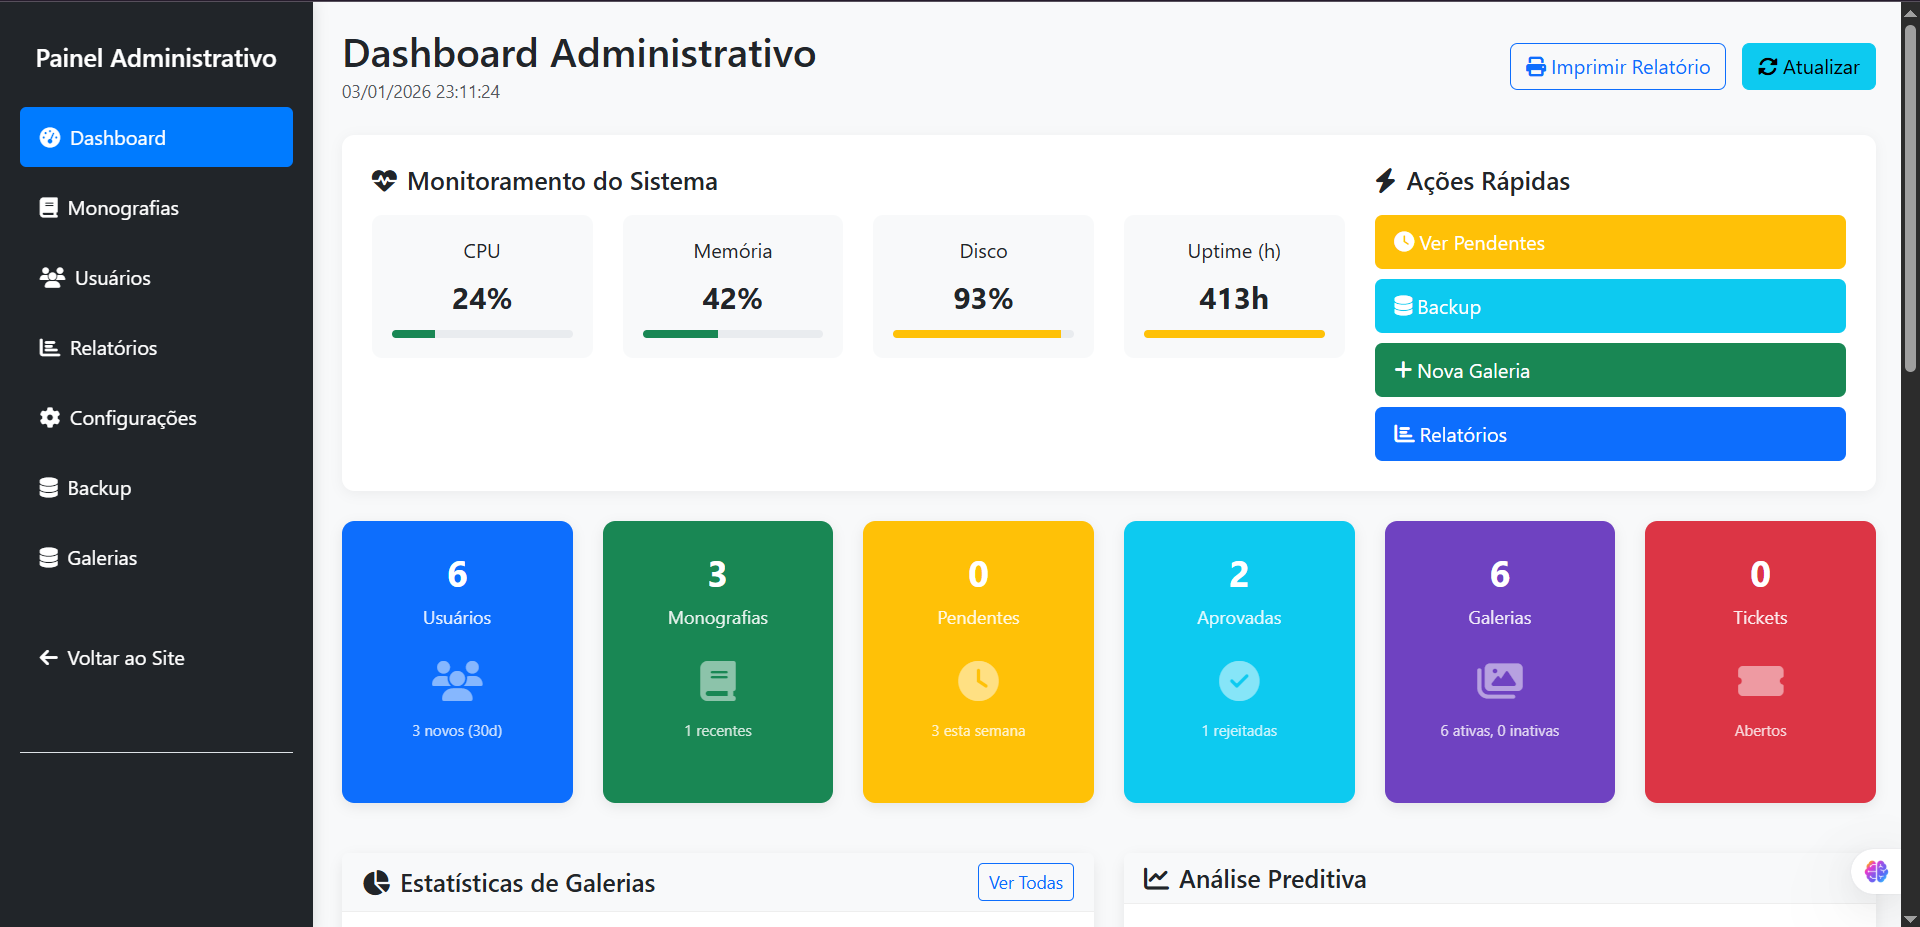
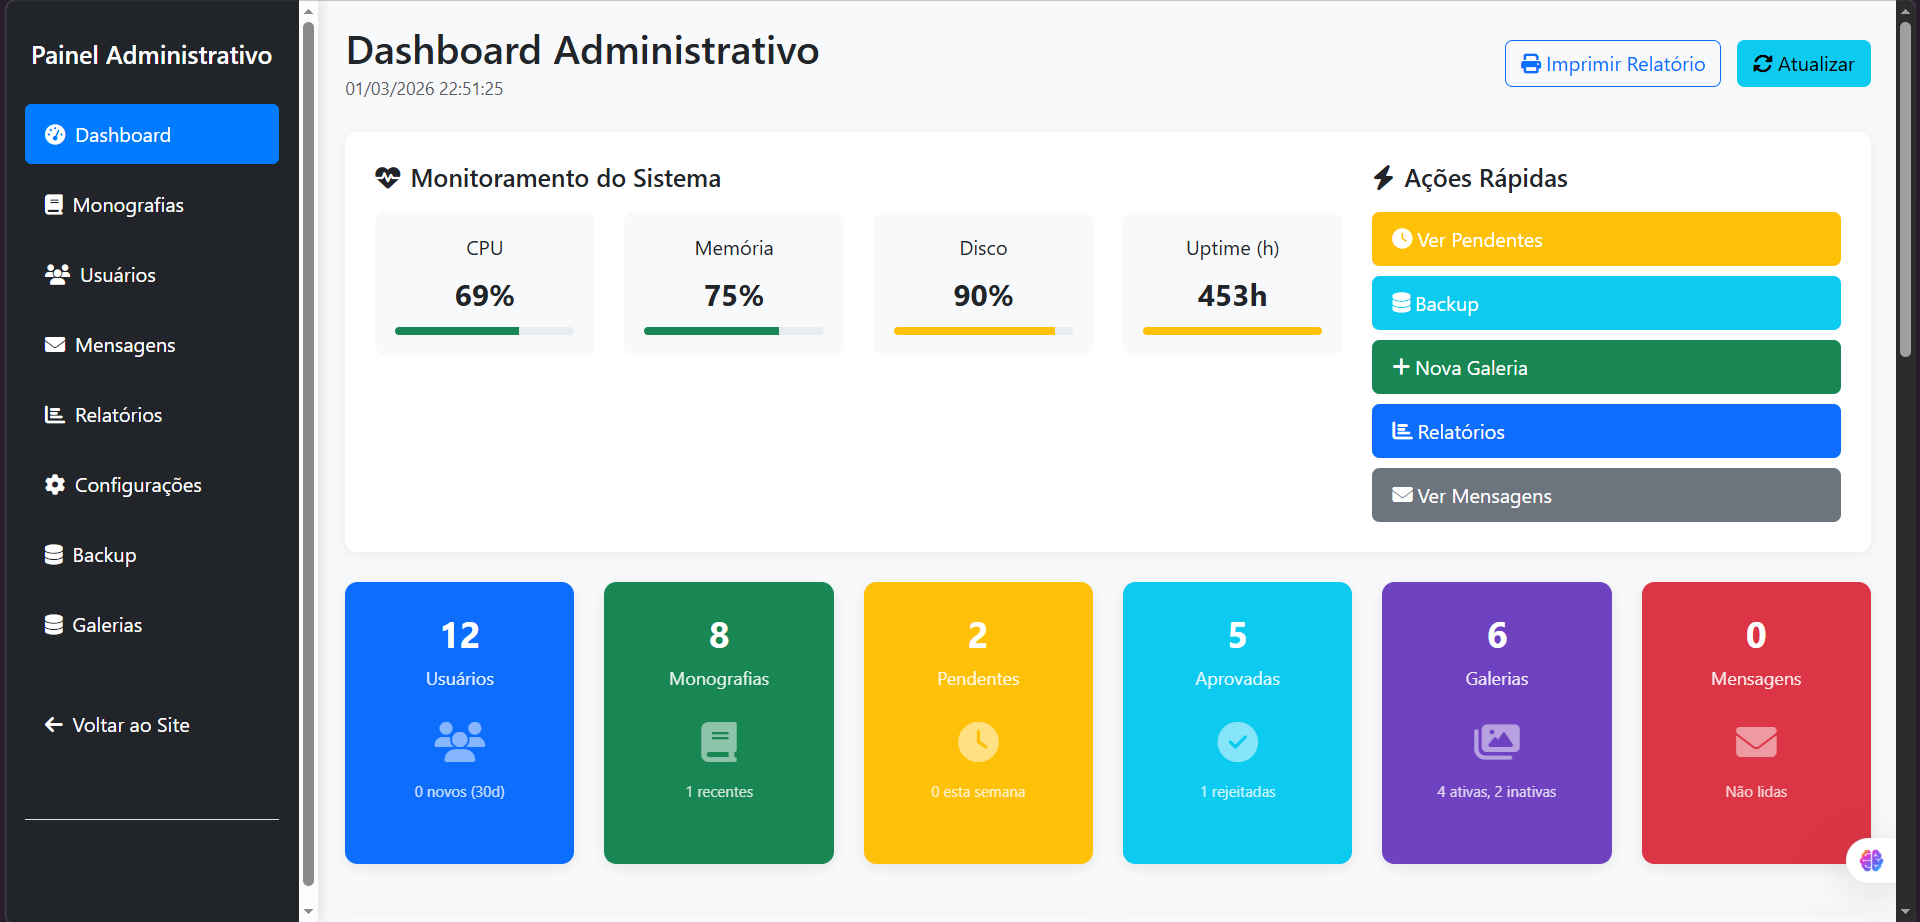
Add files via upload

diff --git a/includes/header.php b/includes/header.php
@@ -1,5 +1,4 @@
 <?php
-
 // Iniciar sessão se não estiver iniciada
 if (session_status() == PHP_SESSION_NONE) {
     session_start();
@@ -10,6 +9,28 @@ $_SESSION['user_foto'] = $_SESSION['user_foto'] ?? 'shine.jpg';
 $_SESSION['user_nome'] = $_SESSION['user_nome'] ?? 'Usuário';
 $_SESSION['user_tipo'] = $_SESSION['user_tipo'] ?? 'visitante';
 
+// Consultar mensagens não lidas para administradores (se logado e admin)
+$unreadMessagesCount = 0;
+$recentUnreadMessages = [];
+if (isLoggedIn() && isAdmin()) {
+    require_once 'config.php'; // Inclui conexão com banco de dados
+    $database = new Database();
+    $db = $database->getConnection();
+    
+    try {
+        // Contar mensagens não lidas
+        $stmt = $db->query("SELECT COUNT(*) FROM mensagens WHERE status = 'nao lida'");
+        $unreadMessagesCount = $stmt->fetchColumn();
+        
+        // Buscar últimas 5 mensagens não lidas para exibir no dropdown
+        $stmt = $db->prepare("SELECT id, nome, assunto, data_envio FROM mensagens WHERE status = 'nao lida' ORDER BY data_envio DESC LIMIT 5");
+        $stmt->execute();
+        $recentUnreadMessages = $stmt->fetchAll(PDO::FETCH_ASSOC);
+    } catch (Exception $e) {
+        // Se a tabela não existir, ignora
+        error_log("Erro ao buscar mensagens: " . $e->getMessage());
+    }
+}
 ?>
 
 <!-- Navbar -->
@@ -34,8 +55,42 @@ $_SESSION['user_tipo'] = $_SESSION['user_tipo'] ?? 'visitante';
                 <?php endif; ?>
             </ul>
         </div>
-        <div class="d-flex">
+        <div class="d-flex align-items-center">
             <?php if (isLoggedIn()): ?>
+               
+                <!-- Notificações para administradores -->
+                <?php if (isAdmin()): ?>
+                <div class="dropdown me-3">
+                    <button class="btn btn-outline-light position-relative" type="button" id="notificationDropdown" data-bs-toggle="dropdown" aria-expanded="false">
+                        <i class="fas fa-bell"></i>
+                        <?php if ($unreadMessagesCount > 0): ?>
+                            <span class="position-absolute top-0 start-100 translate-middle badge rounded-pill bg-danger">
+                                <?php echo $unreadMessagesCount > 9 ? '9+' : $unreadMessagesCount; ?>
+                            </span>
+                        <?php endif; ?>
+                    </button>
+                    <ul class="dropdown-menu dropdown-menu-end" aria-labelledby="notificationDropdown" style="width: 300px;">
+                        <li><h6 class="dropdown-header">Mensagens não lidas (<?php echo $unreadMessagesCount; ?>)</h6></li>
+                        <?php if (!empty($recentUnreadMessages)): ?>
+                            <?php foreach ($recentUnreadMessages as $msg): ?>
+                                <li>
+                                    <a class="dropdown-item" href="admin/mensagens.php#mensagem-<?php echo $msg['id']; ?>">
+                                        <strong><?php echo htmlspecialchars($msg['nome']); ?></strong>
+                                        <small class="text-muted d-block"><?php echo htmlspecialchars($msg['assunto']); ?></small>
+                                        <small class="text-muted"><?php echo date('d/m H:i', strtotime($msg['data_envio'])); ?></small>
+                                    </a>
+                                </li>
+                                <li><hr class="dropdown-divider"></li>
+                            <?php endforeach; ?>
+                            <li><a class="dropdown-item text-center" href="admin/mensagens.php">Ver todas as mensagens</a></li>
+                        <?php else: ?>
+                            <li><span class="dropdown-item-text text-muted">Nenhuma mensagem não lida</span></li>
+                        <?php endif; ?>
+                    </ul>
+                </div>
+                <?php endif; ?>
+
+                <!-- Perfil do usuário -->
                 <div class="dropdown">
                     <button class="btn btn-outline-light dropdown-toggle d-flex align-items-center" type="button" id="userDropdown" data-bs-toggle="dropdown" aria-expanded="false">
                         <img src="assets/images/avatar/<?php echo htmlspecialchars($_SESSION['user_foto']); ?>" 

diff --git a/modals/submissao.php b/modals/submissao.php
@@ -40,38 +40,58 @@
 
                       <div class="col-md-6">
                         <div class="mb-3">
-                          <label class="form-label">Área de Conhecimento *</label>
-                          <select class="form-select" name="area" required>
-                            <option value="" disabled selected>Selecione uma área</option>
+                          <label class="form-label">Cursos *</label>
+                          <select class="form-select" name="curso" required>
+                            <option value="" disabled selected>Selecione o curso</option>
                             <option value="Engenharia Mecatronica" 
-                                    <?php echo (isset($_POST['area']) && $_POST['area'] == 'Engenharia Mecatronica') ? 'selected' : ''; ?>>
+                                    <?php echo (isset($_POST['curso']) && $_POST['curso'] == 'Engenharia Mecatronica') ? 'selected' : ''; ?>>
                               Engenharia Mecatrônica
                             </option>
                             <option value="Engenharia dos Transportes"
-                                    <?php echo (isset($_POST['area']) && $_POST['area'] == 'Engenharia dos Transportes') ? 'selected' : ''; ?>>
+                                    <?php echo (isset($_POST['curso']) && $_POST['curso'] == 'Engenharia dos Transportes') ? 'selected' : ''; ?>>
                               Engenharia dos Transportes
                             </option>
                             <option value="Engenharia Informatica"
-                                    <?php echo (isset($_POST['area']) && $_POST['area'] == 'Engenharia Informatica') ? 'selected' : ''; ?>>
+                                    <?php echo (isset($_POST['curso']) && $_POST['curso'] == 'Engenharia Informatica') ? 'selected' : ''; ?>>
                               Engenharia Informática
                             </option>
                             <option value="Informatica de Gestao"
-                                    <?php echo (isset($_POST['area']) && $_POST['area'] == 'Informatica de Gestao') ? 'selected' : ''; ?>>
+                                    <?php echo (isset($_POST['curso']) && $_POST['curso'] == 'Informatica de Gestao') ? 'selected' : ''; ?>>
                               Informática de Gestão
                             </option>
                             <option value="Gestao e Logistica"
-                                    <?php echo (isset($_POST['area']) && $_POST['area'] == 'Gestao e Logistica') ? 'selected' : ''; ?>>
+                                    <?php echo (isset($_POST['curso']) && $_POST['curso'] == 'Gestao e Logistica') ? 'selected' : ''; ?>>
                               Gestão e Logística
                             </option>
                             <option value="Gestao Aeronautica"
-                                    <?php echo (isset($_POST['area']) && $_POST['area'] == 'Gestao Aeronautica') ? 'selected' : ''; ?>>
+                                    <?php echo (isset($_POST['curso']) && $_POST['curso'] == 'Gestao Aeronautica') ? 'selected' : ''; ?>>
                               Gestão Aeronáutica
                             </option>
                           </select>
-                          <div class="invalid-feedback">Selecione a área de conhecimento.</div>
+                          <div class="invalid-feedback">Selecione um Curso.</div>
                         </div>
                       </div>
                     </div>
+
+                    <div class="row">
+                      <!-- ÁREA -->
+                      <div class="col-md-6">
+                        <div class="mb-3">
+                          <label class="form-label">Área *</label>
+                          <select class="form-select" name="area" id="area" required>
+                            <option value="" disabled selected>Selecione a área</option>
+                            <option value="Engenharia" 
+                                    <?= (isset($_POST['area']) && $_POST['area']=='Engenharia')?'selected':''; ?>>
+                              Engenharia
+                            </option>
+                            <option value="Gestao" 
+                                    <?= (isset($_POST['area']) && $_POST['area']=='Gestao')?'selected':''; ?>>
+                              Gestão
+                            </option>
+                          </select>
+                          <div class="invalid-feedback">Selecione uma área.</div>
+                        </div>
+                      </div>
 
                     <div class="mb-3">
                       <label class="form-label">Resumo *</label>